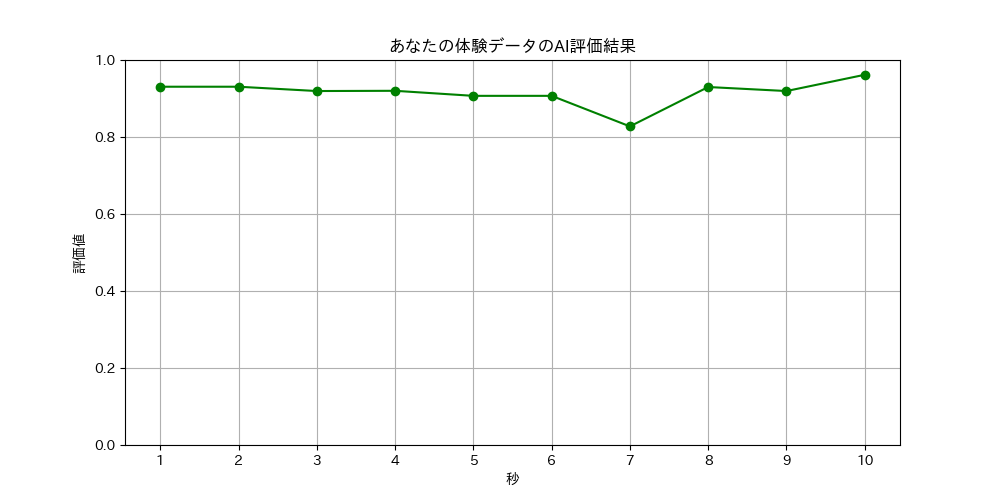
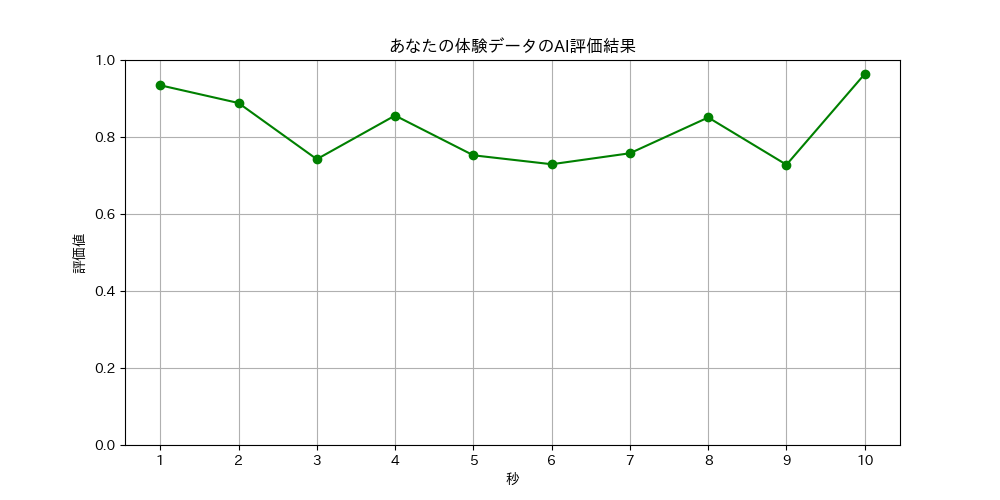
調整

diff --git a/CraftSync_Project/app/templates/title.html b/CraftSync_Project/app/templates/title.html
@@ -31,7 +31,7 @@
                 console.log("自動再生がブロックされました: ", error);
             });
 
-            fetch('/delete_file')
+            // fetch('/delete_file')
 
             // 1秒後にページ遷移
             setTimeout(function() {

diff --git a/CraftSync_Project/app/static/css/score2.css b/CraftSync_Project/app/static/css/score2.css
@@ -20,10 +20,6 @@ body{
     justify-content: center;
     align-items: center;
 }
-.sensor_rank,
-#sensor-info {
-    flex: 1; /* 幅を均等に分配 */
-}
 
 .bottom{
     height: 15vh;

diff --git a/CraftSync_Project/app/app.py b/CraftSync_Project/app/app.py
@@ -127,7 +127,7 @@ def analyze_data():
 
         # 実機に接続時はこのコードを消すこと
         if start_time not in df['Timestamp'].values or end_time not in df['Timestamp'].values:
-            start_time = '2024-06-12 13:51:30'
+            start_time = '2024-06-6 13:56:02'
             end_time = '2024-06-12 13:51:39'
 
             # 日付文字列をdatetimeオブジェクトに変換
@@ -137,7 +137,10 @@ def analyze_data():
             print('データが存在しません')
 
         # 時間範囲でデータをフィルタリング
-        df = df[(df['Timestamp'] >= start_time) & (df['Timestamp'] <= end_time)]
+        # df = df[(df['Timestamp'] >= start_time) & (df['Timestamp'] <= end_time)]
+        df = df[(df['Timestamp'] >= start_time)]
+
+        df = df.head(10)
 
         # 新しいフォーマットで日付を表示
         df['Timestamp'] = pd.to_datetime(df['Timestamp']).dt.strftime("%m/%d/%Y, %H:%M:%S")
